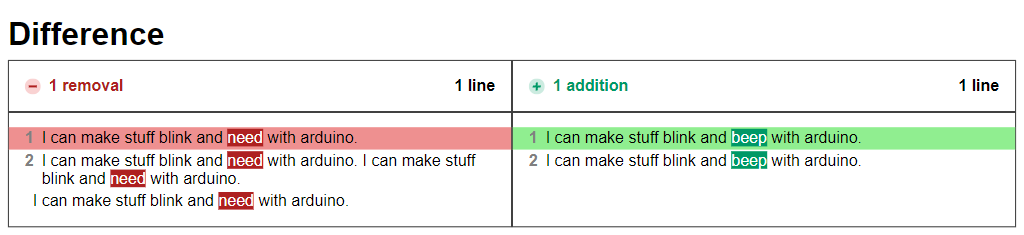
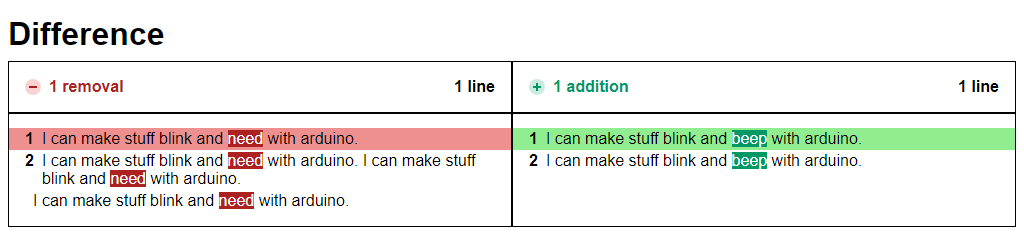
Enhance performance and update text color in CSS

diff --git a/html2png.js b/html2png.js
@@ -2,7 +2,7 @@ const puppeteer = require("puppeteer");
 const path = require("path");
 
 async function captureHTMLFile(containerSelector, outputPath) {
-  const browser = await puppeteer.launch();
+  const browser = await puppeteer.launch({ headless: "shell" });
   const page = await browser.newPage();
 
   // Set the viewport width to 1024 pixels and height to 0 initially

diff --git a/diff_example.html b/diff_example.html
@@ -126,7 +126,7 @@
 
         .line-number {
             font-weight: bold;
-            color: gray;
+            color: black;
         }
 
         .bold {

diff --git a/styles.css b/styles.css
@@ -114,7 +114,7 @@
 
 .line-number {
     font-weight: bold;
-    color: gray;
+    color: black;
 }
 
 .bold {
